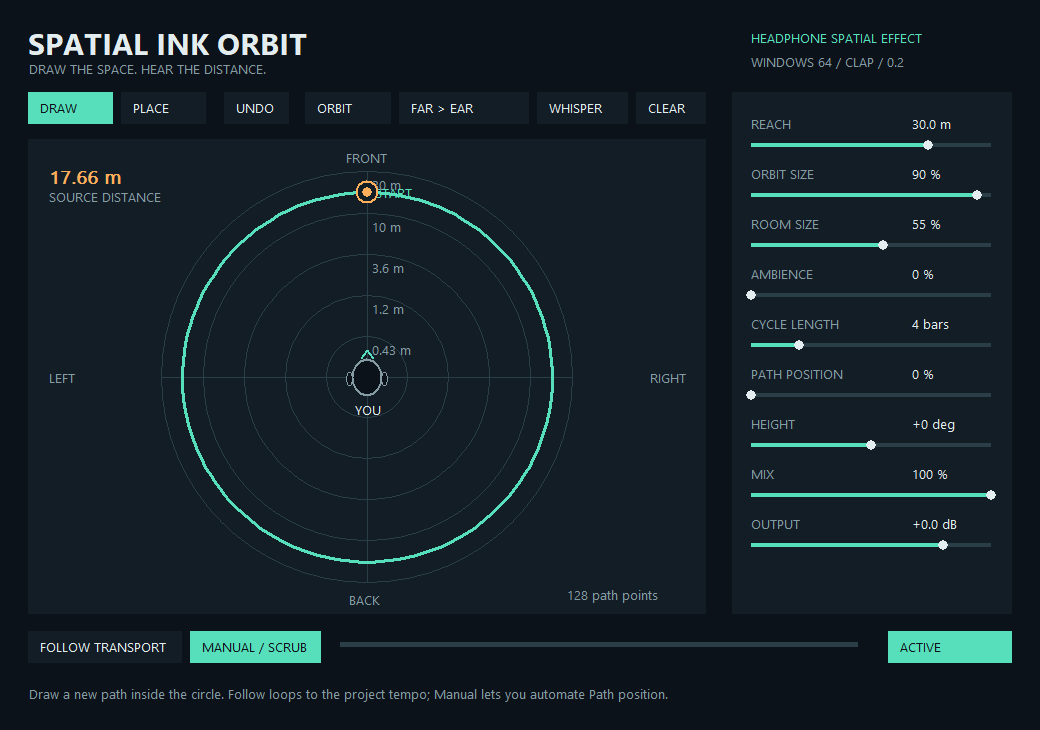
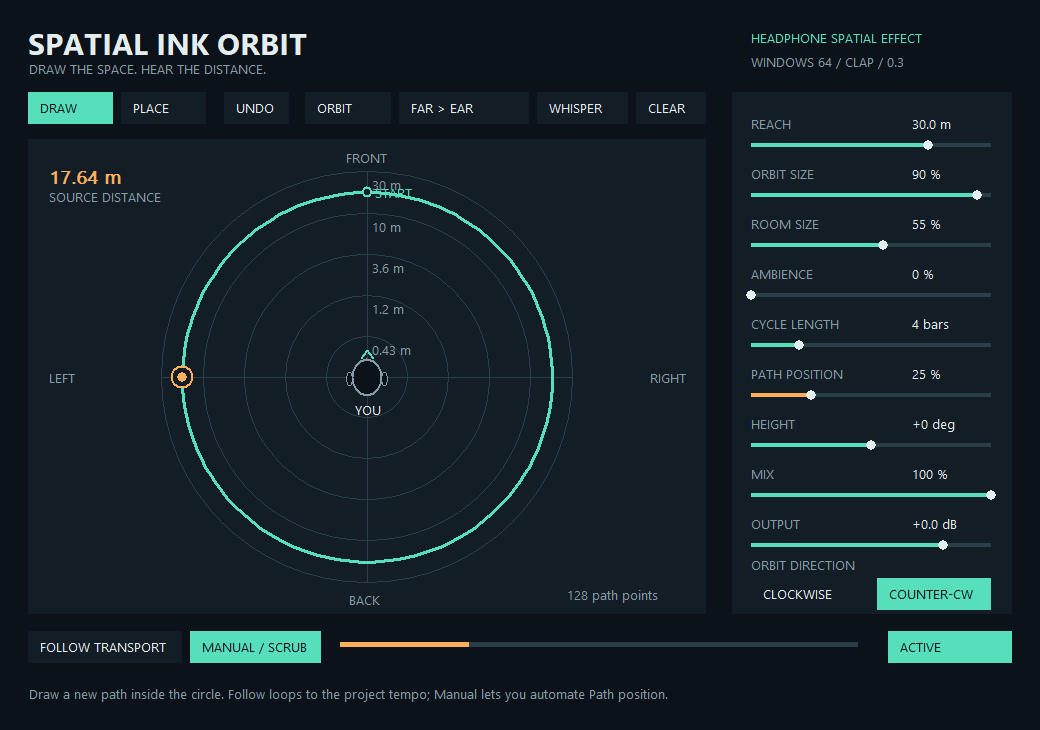
Add ORBIT DIRECTION (clockwise / counter-clockwise), bump to 0.3.0
New stepped, automatable parameter with CLOCKWISE and COUNTER-CW buttons
under the sliders. It mirrors the orbit live, is saved with the project and
does not affect hand-drawn paths. Saved-state version is now 3, so projects
saved with 0.2.0 do not load. Tests, report, README and checksums updated.

diff --git a/source/spatial_ink_orbit.c b/source/spatial_ink_orbit.c
@@ -1,4 +1,4 @@
-/* Spatial Ink Orbit 0.2.0 - Windows x64 CLAP spatial drawing effect (adds the ORBIT SIZE slider).
+/* Spatial Ink Orbit 0.3.0 - Windows x64 CLAP spatial drawing effect (adds the ORBIT SIZE slider).
    Copyright (c) 2026. MIT license. See LICENSE.txt.
    Analytic binaural approximation: ITD, ILD, head shadow and diffuse room.
    No measured/personalized HRTF dataset. No allocations or locks in process(). */
@@ -22,7 +22,7 @@ _Static_assert(ATOMIC_INT_LOCK_FREE==2,"Realtime path and parameter atomics must
 #define QUEUE 1024
 #define WIDTH 1040
 #define HEIGHT 730
-enum { REACH, ROOM, AMBIENCE, BARS, PHASE, HEIGHT_P, MIX, OUTPUT, MOTION, BYPASS, ORBIT_SIZE, NPARAM };
+enum { REACH, ROOM, AMBIENCE, BARS, PHASE, HEIGHT_P, MIX, OUTPUT, MOTION, BYPASS, ORBIT_SIZE, ORBIT_DIR, NPARAM };
 #define ORBIT_POINTS 128
 #define NSLIDERS 9
 static const int slider_ids[NSLIDERS]={REACH,ORBIT_SIZE,ROOM,AMBIENCE,BARS,PHASE,HEIGHT_P,MIX,OUTPUT};
@@ -33,7 +33,7 @@ static const Param definitions[NPARAM]={
  {"Path position",0,1,0,false}, {"Height (degrees)",-90,90,0,false},
  {"Mix",0,1,1,false}, {"Output (dB)",-24,6,-3,false},
  {"Follow transport",0,1,1,true}, {"Bypass",0,1,0,true},
- {"Orbit size",.05,.95,.5,false}
+ {"Orbit size",.05,.95,.5,false}, {"Orbit direction",0,1,0,true}
 };
 typedef struct {float x,y;} Point;
 typedef struct {uint16_t type,id; uint32_t generation; double value;} UiEvent;
@@ -89,12 +89,13 @@ static void store_path(Plugin*p,const Point*pts,uint32_t count){
 }
 /* Any path edit other than the ORBIT button turns the live orbit off. */
 static void publish_path(Plugin*p,const Point*pts,uint32_t count){atomic_store(&p->orbit,0);store_path(p,pts,count);if(p->host_state)p->host_state->mark_dirty(p->host);}
-static void orbit_points(double radius,Point*pts){
- for(uint32_t i=0;i<ORBIT_POINTS;i++){double a=2*PI*i/(ORBIT_POINTS-1);pts[i]=(Point){(float)(radius*sin(a)),(float)(-radius*cos(a))};}
+/* Starts in front of the listener; counter-clockwise (seen from above) mirrors the angle. */
+static void orbit_points(double radius,bool counter_clockwise,Point*pts){
+ for(uint32_t i=0;i<ORBIT_POINTS;i++){double a=2*PI*i/(ORBIT_POINTS-1);if(counter_clockwise)a=-a;pts[i]=(Point){(float)(radius*sin(a)),(float)(-radius*cos(a))};}
 }
 /* The live path: a circle of the current ORBIT SIZE while the orbit is on, else the stored path. */
 static uint32_t current_path(Plugin*p,Point*pts){
- if(atomic_load(&p->orbit)){orbit_points(value(p,ORBIT_SIZE),pts);return ORBIT_POINTS;}
+ if(atomic_load(&p->orbit)){orbit_points(value(p,ORBIT_SIZE),value(p,ORBIT_DIR)>=.5,pts);return ORBIT_POINTS;}
  uint32_t n=atomic_load(&p->count);if(n>POINTS)n=POINTS;
  for(uint32_t i=0;i<n;i++)pts[i]=unpack_point(atomic_load(&p->path[i]));
  return n;
@@ -151,7 +152,7 @@ static void receive_event(Plugin*p,const clap_event_header_t*e){
 }
 static void preset(Plugin*p,int which,bool inform){
  Point pts[POINTS];uint32_t n=128;
- if(which==0){n=ORBIT_POINTS;orbit_points(value(p,ORBIT_SIZE),pts);}
+ if(which==0){n=ORBIT_POINTS;orbit_points(value(p,ORBIT_SIZE),value(p,ORBIT_DIR)>=.5,pts);}
  else if(which==1){for(uint32_t i=0;i<n;i++){double t=(double)i/(n-1);double r=.94*(1-t)+.045*t;double a=PI*(1-t)+PI*.5*t;pts[i]=(Point){(float)(r*sin(a)),(float)(-r*cos(a))};}}
  else{n=1;pts[0]=(Point){-.10f,-.025f};}
  publish_path(p,pts,n);
@@ -173,7 +174,7 @@ static double read_delay(Delay*d,double samples){
 /* Audio-side copy of the path: while the orbit is on, rebuild the circle from ORBIT SIZE (no shared writes). */
 static void apply_orbit(Plugin*p){
  if(!atomic_load(&p->orbit))return;
- orbit_points(value(p,ORBIT_SIZE),p->cached);p->cached_count=ORBIT_POINTS;
+ orbit_points(value(p,ORBIT_SIZE),value(p,ORBIT_DIR)>=.5,p->cached);p->cached_count=ORBIT_POINTS;
 }
 static void clear_dsp(Plugin*p){
  if(p->direct.data)memset(p->direct.data,0,p->direct.size*sizeof(float));p->direct.pos=0;
@@ -297,9 +298,9 @@ static clap_process_status CLAP_ABI process(const clap_plugin_t*c,const clap_pro
     if((tr->flags&CLAP_TRANSPORT_HAS_TIME_SIGNATURE)&&tr->tsig_denom&&tr->tsig_num)barbeats=tr->tsig_num*4.0/tr->tsig_denom;
    }
    ei++;event=ei<ec?pr->in_events->get(pr->in_events,ei):NULL;
-   double old_orbit=targets[ORBIT_SIZE];
+   double old_orbit=targets[ORBIT_SIZE],old_dir=targets[ORBIT_DIR];
    for(int k=0;k<NPARAM;k++)targets[k]=value(p,k);
-   if(targets[ORBIT_SIZE]!=old_orbit)apply_orbit(p);
+   if(targets[ORBIT_SIZE]!=old_orbit||targets[ORBIT_DIR]!=old_dir)apply_orbit(p);
   }
   for(int k=0;k<NPARAM;k++){double a=(k==ROOM?room_coeff:smooth_coeff);if(definitions[k].stepped)p->smooth[k]=targets[k];else p->smooth[k]+=a*(targets[k]-p->smooth[k]);}
   double phase=p->smooth[PHASE];
@@ -335,13 +336,14 @@ static bool CLAP_ABI params_value(const clap_plugin_t*c,clap_id id,double*out){i
 static bool CLAP_ABI params_text(const clap_plugin_t*c,clap_id id,double v,char*b,uint32_t n){
  (void)c;if(id>=NPARAM||!b||!n)return false;
  if(id==REACH)snprintf(b,n,"%.1f m",v);else if(id==BARS)snprintf(b,n,"%.0f bars",v);else if(id==HEIGHT_P)snprintf(b,n,"%+.0f deg",v);
- else if(id==OUTPUT)snprintf(b,n,"%+.1f dB",v);else if(id==MOTION)snprintf(b,n,"%s",v>=.5?"Follow":"Manual");
+ else if(id==OUTPUT)snprintf(b,n,"%+.1f dB",v);else if(id==MOTION)snprintf(b,n,"%s",v>=.5?"Follow":"Manual");else if(id==ORBIT_DIR)snprintf(b,n,"%s",v>=.5?"Counter-clockwise":"Clockwise");
  else if(id==BYPASS)snprintf(b,n,"%s",v>=.5?"Bypass":"Active");else snprintf(b,n,"%.0f %%",v*100);return true;
 }
 static bool CLAP_ABI params_parse(const clap_plugin_t*c,clap_id id,const char*b,double*v){
  (void)c;if(id>=NPARAM||!b||!v)return false;char*end;double d=strtod(b,&end);
  if(end==b){if(id==MOTION){if(!_stricmp(b,"Follow"))d=1;else if(!_stricmp(b,"Manual"))d=0;else return false;}
- else if(id==BYPASS){if(!_stricmp(b,"Bypass"))d=1;else if(!_stricmp(b,"Active"))d=0;else return false;}else return false;}
+ else if(id==BYPASS){if(!_stricmp(b,"Bypass"))d=1;else if(!_stricmp(b,"Active"))d=0;else return false;}
+ else if(id==ORBIT_DIR){if(!_stricmp(b,"Counter-clockwise"))d=1;else if(!_stricmp(b,"Clockwise"))d=0;else return false;}else return false;}
  else if(strchr(end,'%')&&(id==ROOM||id==AMBIENCE||id==PHASE||id==MIX||id==ORBIT_SIZE))d/=100;
  if(!isfinite(d))return false;*v=clampd(d,definitions[id].min,definitions[id].max);return true;
 }
@@ -354,14 +356,14 @@ typedef struct {uint32_t magic,version,count,reserved;float params[NPARAM];uint3
 static bool write_all(const clap_ostream_t*s,const void*data,uint64_t n){const char*p=data;while(n){int64_t k=s->write(s,p,n);if(k<=0||(uint64_t)k>n)return false;p+=k;n-=k;}return true;}
 static bool read_all(const clap_istream_t*s,void*data,uint64_t n){char*p=data;while(n){int64_t k=s->read(s,p,n);if(k<=0||(uint64_t)k>n)return false;p+=k;n-=k;}return true;}
 static bool CLAP_ABI state_save(const clap_plugin_t*c,const clap_ostream_t*s){
- Plugin*p=c->plugin_data;State st={0};st.magic=0x4f4e4953;st.version=2;
+ Plugin*p=c->plugin_data;State st={0};st.magic=0x4f4e4953;st.version=3;
  Point live[POINTS];st.count=current_path(p,live);st.reserved=atomic_load(&p->orbit)?1:0;
  for(int k=0;k<NPARAM;k++)st.params[k]=(float)value(p,k);for(uint32_t i=0;i<st.count;i++)st.pts[i]=pack_point(live[i]);
  return write_all(s,&st,sizeof(st));
 }
 static bool CLAP_ABI state_load(const clap_plugin_t*c,const clap_istream_t*s){
  Plugin*p=c->plugin_data;State st;
- if(!read_all(s,&st,sizeof(st))||st.magic!=0x4f4e4953||st.version!=2||st.reserved>1||!st.count||st.count>POINTS)return false;
+ if(!read_all(s,&st,sizeof(st))||st.magic!=0x4f4e4953||st.version!=3||st.reserved>1||!st.count||st.count>POINTS)return false;
  for(int k=0;k<NPARAM;k++)if(!isfinite(st.params[k])||st.params[k]<definitions[k].min||st.params[k]>definitions[k].max)return false;
  Point pts[POINTS];for(uint32_t i=0;i<st.count;i++)pts[i]=unpack_point(st.pts[i]);
  /* Validate the complete state before replacing anything. */
@@ -389,7 +391,7 @@ static int slider_y(int slot){return 143+slot*50;}
 static void draw_gui(Plugin*p,HDC dc){
  rect_fill(dc,0,0,WIDTH,HEIGHT,bg);
  label(dc,p->title,28,22,"SPATIAL INK ORBIT",text);label(dc,p->small,29,60,"DRAW THE SPACE. HEAR THE DISTANCE.",muted);
- label(dc,p->small,751,29,"HEADPHONE SPATIAL EFFECT",mint);label(dc,p->small,751,53,"WINDOWS 64 / CLAP / 0.2",muted);
+ label(dc,p->small,751,29,"HEADPHONE SPATIAL EFFECT",mint);label(dc,p->small,751,53,"WINDOWS 64 / CLAP / 0.3",muted);
  button(dc,p,28,92,85,"DRAW",!p->place_mode);button(dc,p,121,92,85,"PLACE",p->place_mode);
  button(dc,p,224,92,65,"UNDO",false);button(dc,p,305,92,86,"ORBIT",false);button(dc,p,399,92,130,"FAR > EAR",false);button(dc,p,537,92,91,"WHISPER",false);button(dc,p,636,92,70,"CLEAR",false);
  rect_fill(dc,28,139,678,475,panel);
@@ -422,6 +424,8 @@ static void draw_gui(Plugin*p,HDC dc){
   rect_fill(dc,751,y,240,4,line);double t=normalized(p,k);rect_fill(dc,751,y,(int)(240*t),4,k==PHASE?orange:mint);
   ellipse(dc,751+(int)(240*t)-5,y-3,10,10,text,text,1);
  }
+ label(dc,p->small,751,556,"ORBIT DIRECTION",muted);
+ button(dc,p,751,578,118,"CLOCKWISE",value(p,ORBIT_DIR)<.5);button(dc,p,877,578,114,"COUNTER-CW",value(p,ORBIT_DIR)>=.5);
  button(dc,p,28,631,154,"FOLLOW TRANSPORT",value(p,MOTION)>.5);button(dc,p,190,631,131,"MANUAL / SCRUB",value(p,MOTION)<.5);
  button(dc,p,888,631,124,value(p,BYPASS)>.5?"BYPASSED":"ACTIVE",value(p,BYPASS)<.5);
  rect_fill(dc,340,642,518,5,line);rect_fill(dc,340,642,(int)(518*clampd(phase,0,1)),5,orange);
@@ -477,6 +481,7 @@ static LRESULT CALLBACK window_proc(HWND hwnd,UINT msg,WPARAM wp,LPARAM lp){
    refresh(p);return 0;
   }
   if(y>=631&&y<=663){if(x>=28&&x<=182)ui_triplet(p,MOTION,1);else if(x>=190&&x<=321)ui_triplet(p,MOTION,0);else if(x>=888&&x<=1012)ui_triplet(p,BYPASS,value(p,BYPASS)<.5?1:0);refresh(p);return 0;}
+  if(y>=578&&y<=610&&x>=751&&x<=991){if(x<=869)ui_triplet(p,ORBIT_DIR,0);else if(x>=877)ui_triplet(p,ORBIT_DIR,1);refresh(p);return 0;}
   if(x>=741&&x<=1003)for(int slot=0;slot<NSLIDERS;slot++)if(abs(y-slider_y(slot))<=14){
    int k=slider_ids[slot];if(k==PHASE)ui_triplet(p,MOTION,0);p->drag_param=k;ui_queue(p,CLAP_EVENT_PARAM_GESTURE_BEGIN,k,0);slider_update(p,k,x);SetCapture(hwnd);return 0;
   }
@@ -541,7 +546,7 @@ static const void*CLAP_ABI extension(const clap_plugin_t*c,const char*id){
 }
 static void CLAP_ABI main_thread(const clap_plugin_t*c){refresh(c->plugin_data);}
 static const char*const features[]={CLAP_PLUGIN_FEATURE_AUDIO_EFFECT,CLAP_PLUGIN_FEATURE_MULTI_EFFECTS,CLAP_PLUGIN_FEATURE_REVERB,CLAP_PLUGIN_FEATURE_STEREO,NULL};
-static const clap_plugin_descriptor_t descriptor={CLAP_VERSION_INIT,"local.spatialink.orbit","Spatial Ink Orbit","Spatial Ink","","","","0.2.0","Draw motion from vast spaces to a close headphone source.",features};
+static const clap_plugin_descriptor_t descriptor={CLAP_VERSION_INIT,"local.spatialink.orbit","Spatial Ink Orbit","Spatial Ink","","","","0.3.0","Draw motion from vast spaces to a close headphone source.",features};
 static uint32_t CLAP_ABI factory_count(const clap_plugin_factory_t*f){(void)f;return 1;}
 static const clap_plugin_descriptor_t*CLAP_ABI factory_desc(const clap_plugin_factory_t*f,uint32_t index){(void)f;return index?NULL:&descriptor;}
 static const clap_plugin_t*CLAP_ABI factory_create(const clap_plugin_factory_t*f,const clap_host_t*host,const char*id){

diff --git a/source/test_host_orbit.c b/source/test_host_orbit.c
@@ -71,7 +71,7 @@ int main(int argc,char**argv){
  const clap_plugin_factory_t*factory=entry->get_factory(CLAP_PLUGIN_FACTORY_ID);CHECK(factory&&factory->get_plugin_count(factory)==1,"factory count");
  const clap_plugin_descriptor_t*d=factory->get_plugin_descriptor(factory,0);CHECK(d&&clap_version_is_compatible(d->clap_version),"descriptor compatible");CHECK(!factory->get_plugin_descriptor(factory,1),"invalid descriptor index");
  const clap_plugin_t*p=factory->create_plugin(factory,&host,d->id);CHECK(p&&p->init(p),"create/init");
- const clap_plugin_params_t*pa=p->get_extension(p,CLAP_EXT_PARAMS);CHECK(pa&&pa->count(p)==11,"ten host automation parameters");
+ const clap_plugin_params_t*pa=p->get_extension(p,CLAP_EXT_PARAMS);CHECK(pa&&pa->count(p)==12,"twelve host automation parameters");
  const clap_plugin_audio_ports_t*ap=p->get_extension(p,CLAP_EXT_AUDIO_PORTS);clap_audio_port_info_t port;CHECK(ap&&ap->get(p,0,true,&port)&&port.channel_count==2,"stereo input");CHECK(ap->get(p,0,false,&port)&&port.in_place_pair==0,"stereo in-place output");
  for(uint32_t i=0;i<10;i++){clap_param_info_t info;CHECK(pa->get_info(p,i,&info),"parameter info");double v;CHECK(pa->get_value(p,i,&v)&&v>=info.min_value&&v<=info.max_value,"parameter defaults");}
  CHECK(!p->activate(p,100,1,N),"unsupported sample rate rejected");
@@ -165,13 +165,24 @@ int main(int argc,char**argv){
   shutdown(p);double orbit_db=10*log10(near_e/far_e);CHECK(orbit_db>10,"widening ORBIT SIZE live moves the source away (quieter by >10 dB)");
   print_gui(ui,"work/spatial-ink/orbit-90.bmp");
   /* State: orbit flag and size round-trip, and the saved circle has the slider radius. */
-  Memory orb=save(p);const uint32_t*pts=(const uint32_t*)(orb.data+16+4*11);int ry=(int16_t)(pts[0]>>16);CHECK(orb.data[12]==1&&abs(ry+(int)lround(.9*32767))<=2,"saved orbit points use the ORBIT SIZE radius");
+  Memory orb=save(p);const uint32_t*pts=(const uint32_t*)(orb.data+16+4*12);int ry=(int16_t)(pts[0]>>16);CHECK(orb.data[12]==1&&abs(ry+(int)lround(.9*32767))<=2,"saved orbit points use the ORBIT SIZE radius");
   const clap_plugin_t*p3=factory->create_plugin(factory,&host,d->id);CHECK(p3&&p3->init(p3)&&load(p3,&orb),"orbit state load");Memory orb2=save(p3);CHECK(orb.size==orb2.size&&!memcmp(orb.data,orb2.data,orb.size),"orbit state byte-identical roundtrip");p3->destroy(p3);
+  /* Direction: clockwise by default (a quarter of the way round is on the right), COUNTER-CW mirrors it live. */
+  CHECK(pa->get_value(p,11,&v)&&v==0,"ORBIT DIRECTION defaults to clockwise");
+  CHECK((int16_t)pts[32]>0,"clockwise orbit passes through the right side first");
+  setp(p,4,.25);double lr[2][2]={{0}};
+  for(int dir=0;dir<2;dir++){
+   click(ui,dir?930:810,594);CHECK(pa->get_value(p,11,&v)&&v==(double)dir,"direction buttons set ORBIT DIRECTION");
+   startup(p,48000);for(int b=0;b<30;b++){for(int i=0;i<N;i++)left[i]=right[i]=(float)noise();block(p,N,0,false);if(b>12)for(int i=0;i<N;i++){lr[dir][0]+=ol[i]*ol[i];lr[dir][1]+=orr[i]*orr[i];}}shutdown(p);
+  }
+  CHECK(lr[0][1]>lr[0][0]*2&&lr[1][0]>lr[1][1]*2,"quarter-way source is right for clockwise and left for counter-clockwise");
+  Memory ccw=save(p);const uint32_t*cpts=(const uint32_t*)(ccw.data+16+4*12);CHECK(ccw.data[12]==1&&(int16_t)cpts[32]<0,"saved counter-clockwise orbit passes through the left side first");
+  click(ui,930,594);print_gui(ui,"work/spatial-ink/orbit-ccw.bmp");click(ui,810,594);setp(p,4,0);
   /* A hand-drawn path is not an orbit: the slider must not change it. */
   click(ui,66,106);SendMessageW(ui,WM_LBUTTONDOWN,MK_LBUTTON,MAKELPARAM(367,181));for(int i=1;i<=40;i++)SendMessageW(ui,WM_MOUSEMOVE,MK_LBUTTON,MAKELPARAM(367+(int)(100*sin(i*.1)),181+i*5));SendMessageW(ui,WM_LBUTTONUP,0,MAKELPARAM(300,380));
   Memory drawn=save(p);CHECK(drawn.data[12]==0,"drawing a path turns the orbit off");setp(p,10,.3);Memory drawn2=save(p);
-  CHECK(!memcmp(drawn.data+16+4*11,drawn2.data+16+4*11,sizeof(uint32_t)*POINTS_IN_STATE),"slider leaves a hand-drawn path untouched");
-  printf("PASS ORBIT SIZE slider, live widening %.1f dB, state roundtrip, drawn paths unaffected\n",orbit_db);
+  CHECK(!memcmp(drawn.data+16+4*12,drawn2.data+16+4*12,sizeof(uint32_t)*POINTS_IN_STATE),"slider leaves a hand-drawn path untouched");
+  printf("PASS ORBIT SIZE slider + direction, live widening %.1f dB, state roundtrip, drawn paths unaffected\n",orbit_db);
  }
  p2->destroy(p2);g->destroy(p);CHECK(g->create(p,CLAP_WINDOW_API_WIN32,true),"floating GUI create after embedded destroy");g->destroy(p);p->destroy(p);DestroyWindow(parent);entry->deinit();entry->deinit();FreeLibrary(dll);
  printf("ALL TESTS PASSED; outgoing host events: %d\n",out_count);return 0;

diff --git a/README-ORBIT-AR.md b/README-ORBIT-AR.md
@@ -1,6 +1,6 @@
-# Spatial Ink Orbit 0.2.0
+# Spatial Ink Orbit 0.3.0
 
-نسخة جديدة باسم **Spatial Ink Orbit** فيها سلايدر **ORBIT SIZE** لتوسيع وتصغير دايرة الأوربت. بتتركّب **جنب** Spatial Ink الأصلي من غير ما تلمسه.
+نسخة جديدة باسم **Spatial Ink Orbit** فيها سلايدر **ORBIT SIZE** لتوسيع وتصغير دايرة الأوربت، وزرارين **CLOCKWISE / COUNTER-CW** لاتجاه اللف. بتتركّب **جنب** Spatial Ink الأصلي من غير ما تلمسه.
 
 ## التركيب
 
@@ -16,7 +16,15 @@
 - لو رسمت مسار بإيدك أو استخدمت PLACE أو FAR > EAR أو WHISPER أو CLEAR، المسار ده مبيتأثرش بالسلايدر. اضغط ORBIT تاني للرجوع للأوربت.
 - المسافة الفعلية = حجم الدايرة × REACH. يعني REACH بيحدد أقصى مسافة، والسلايدر بيحدد الدايرة جواها.
 
+## ORBIT DIRECTION (اتجاه اللف)
+
+- تحت السلايدرز زرارين: **CLOCKWISE** (مع عقارب الساعة، الافتراضي، ونفس اتجاه النسخة القديمة) و**COUNTER-CW** (عكس عقارب الساعة).
+- الأوربت دايمًا بيبدأ من قدامك. مع عقارب الساعة بيروح يمينك أول، وعكسها بيروح شمالك أول.
+- بيتبدّل لحظيًا أثناء التشغيل، وينفع Automation، وبيتحفظ مع المشروع. بيأثر على الأوربت بس، مش على المسارات المرسومة بإيدك.
+
 ## ملاحظات
+
+- من 0.3.0 صيغة حفظ المشروع اتغيّرت، فمشاريع اتحفظت بنسخة 0.2.0 مش هتفتح.
 
 - الـ ID اتغيّر إلى `local.spatialink.orbit`، فمشاريع Spatial Ink القديمة مش هتفتح في النسخة دي. اعمل Add للبلجن الجديد وابدأ من جديد.
 - باقي الإمكانيات (DRAW, PLACE, UNDO, FAR > EAR, WHISPER, CLEAR, Follow/Manual) زي ما هي، وشرحها في `README-AR.md`.

diff --git a/TEST-REPORT-ORBIT.md b/TEST-REPORT-ORBIT.md
@@ -1,17 +1,18 @@
-# Spatial Ink Orbit 0.2.0 — verification
+# Spatial Ink Orbit 0.3.0 — verification
 
 Date: 26 October 2026. Compiler: LLVM-MinGW 20261006 ucrt x86_64 (archive SHA-256 verified against BUILD.md). Build: no compiler warnings with `-Wall -Wextra`.
 
 ## Integration host (`source/test_host_orbit.c`) — all passed
 
 - Every check of the original 0.1.0 host test still passes on the new binary: GUI, 32/64-bit audio, bypass, beat sync, direction/distance cues, freehand + Undo, state roundtrip, sample-offset events, reverb tail, demo render.
-- 11 host parameters (was 10).
+- 12 host parameters (was 10).
 - New ORBIT SIZE checks:
   - ORBIT button turns the live orbit on.
   - Slider drag to the right edge gives 95%, to the left edge 5%; the orbit stays on.
   - Widening ORBIT SIZE from 10% to 90% while processing makes the source quieter by **21.7 dB** (REACH 30 m, ambience off).
   - Saved orbit points have the slider radius; orbit state loads into a second instance and re-saves byte-identical.
   - After drawing a path by hand, the orbit is off and moving the slider leaves the saved path unchanged.
+- New ORBIT DIRECTION checks: defaults to clockwise; the buttons set the parameter; a quarter of the way round the source is on the right ear for clockwise and the left ear for counter-clockwise (energy ratio over 2x); saved points pass the right side first for clockwise and the left side first for counter-clockwise.
 - Screenshot: `Interface-Orbit.png`.
 
 ## Not done

diff --git a/DESIGN-orbit-size.md b/DESIGN-orbit-size.md
@@ -39,3 +39,6 @@ The ORBIT button currently draws a fixed circle (radius 0.5 on the map, `preset(
 ## Left to the builder
 - Parameter enum/definitions, slider layout in the panel (right panel may need slight re-spacing for a 9th slider), UI mouse hit-testing, state save/load of the new value and flag.
 - Build with `build.ps1` (LLVM-MinGW) and re-run `test_host.c` plus CLAP Validator; update README-AR.md and SHA256SUMS.
+
+## Addendum 2026-10-26: ORBIT DIRECTION (0.3.0)
+Stepped, automatable parameter `ORBIT_DIR` (0 clockwise = previous behaviour, 1 counter-clockwise) with two buttons under the sliders. It mirrors the orbit angle, applies live while the orbit is on, and leaves drawn paths alone. Saved-state version bumped to 3, so 0.2.0 projects do not load.
